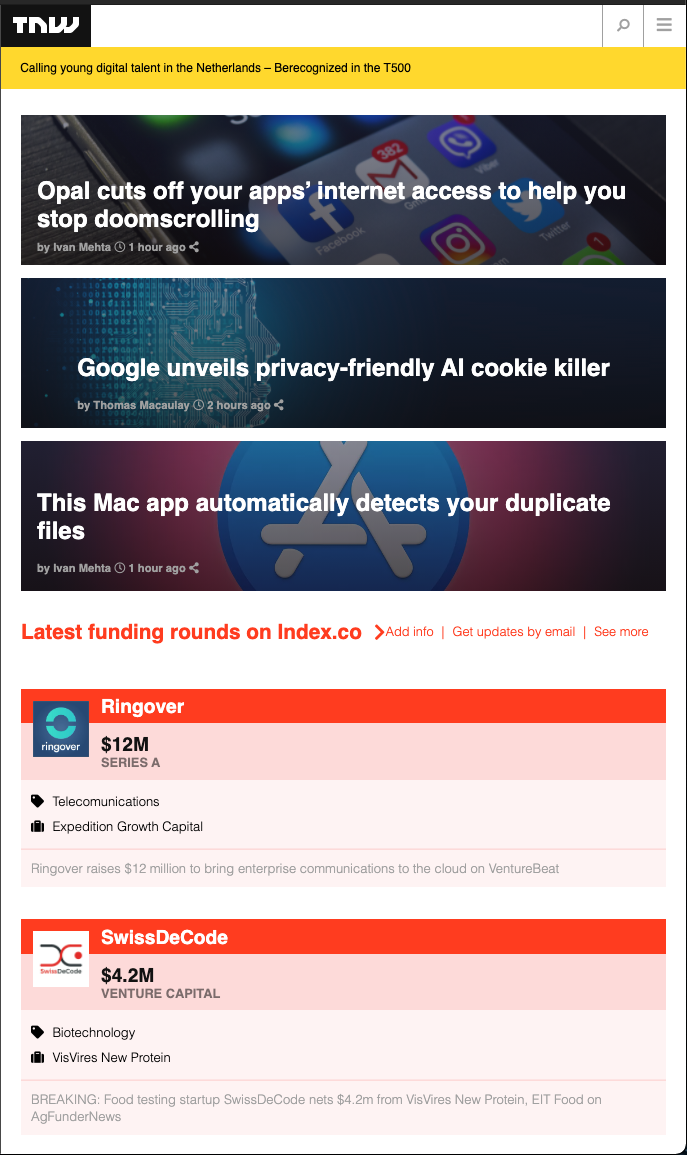
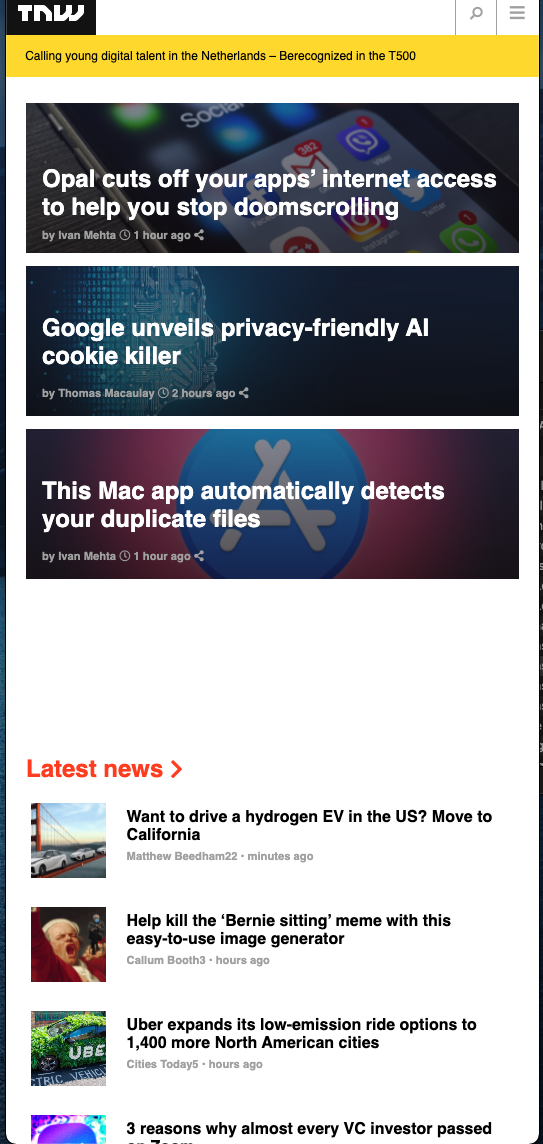
Updated readme file

diff --git a/README.md b/README.md
@@ -1,8 +1,9 @@
 ![](https://img.shields.io/badge/Microverse-blueviolet)
 
-# Responsive Design
+# Responsive Design Update on MIlestone 2
 
 We replicate the archived version of the website The Next Web. The main goal of the project is to apply responsive design with Media queries
+Added new content Categories, Latest news, and Latest deals supporting responisve behaviour for different devices.
 
 ![screenshot](./SmallScreen.png)
 ![screenshot](./MediumScreen.png)
@@ -17,7 +18,7 @@ Additional description about the project and its features.
 
 ## Live Demo
 
-[Live Demo Link](https://livedemo.com)
+[Live Demo Link](https://marijanbrvar.github.io/TheNewWebClone/) Updatetd version
 
 ## Getting Started
 
@@ -49,7 +50,7 @@ In this project, we will replicate the archived version of the website The Next 
 - Hat tip to anyone whose code was used
 - Inspiration
 - etc
-
+<!-- 
 ## 📝 License
 
-This project is [MIT](lic.url) licensed.
+This project is [MIT](lic.url) licensed. -->
